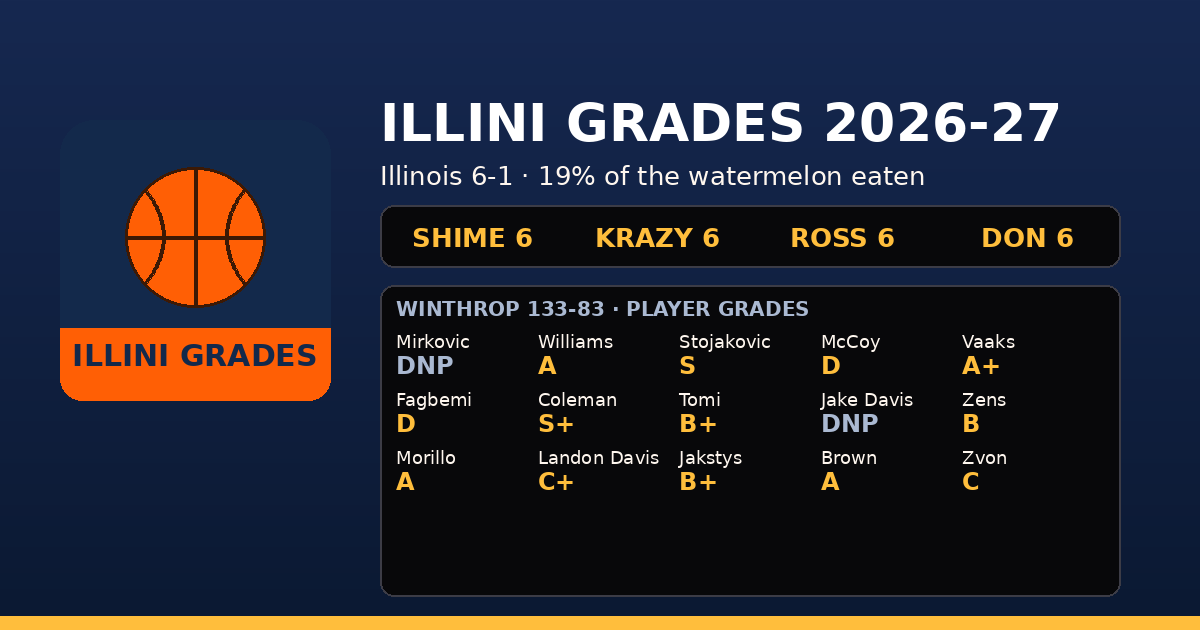
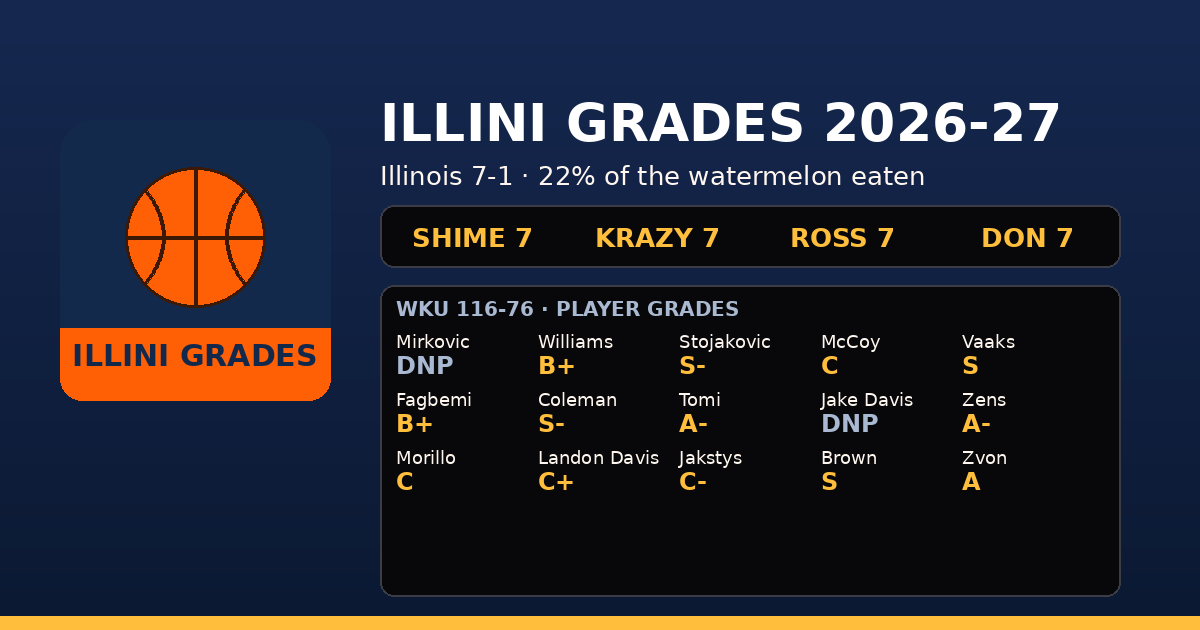
Game 8: Illinois 116, WKU 76
Claude-Session: https://claude.ai/code/session_01Aj8Udp5BAQnHTrSf8e619t

diff --git a/index.html b/index.html
@@ -11,7 +11,7 @@
   <meta property="og:url" content="https://kshime3.github.io/Illini-Grades/">
   <meta property="og:title" content="Illini Grades: who's winning the Illini predictions?">
   <meta property="og:description" content="Predictions, grades, and one very mysterious watermelon. Who's winning?">
-  <meta property="og:image" content="https://kshime3.github.io/Illini-Grades/img/og-card.png?v=7">
+  <meta property="og:image" content="https://kshime3.github.io/Illini-Grades/img/og-card.png?v=8">
   <meta property="og:image:width" content="1200">
   <meta property="og:image:height" content="630">
   <meta name="twitter:card" content="summary_large_image">
